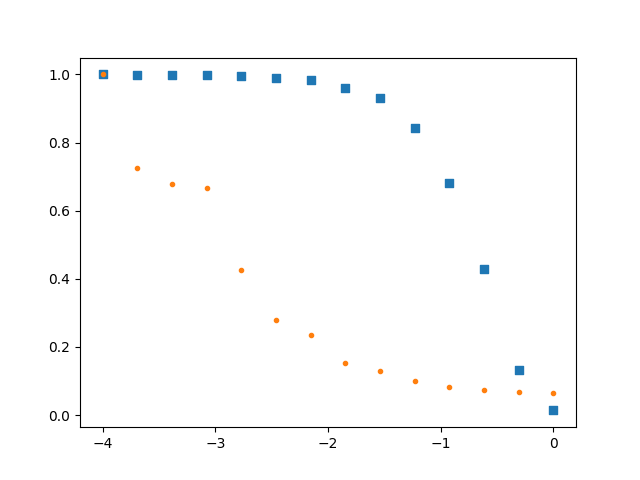
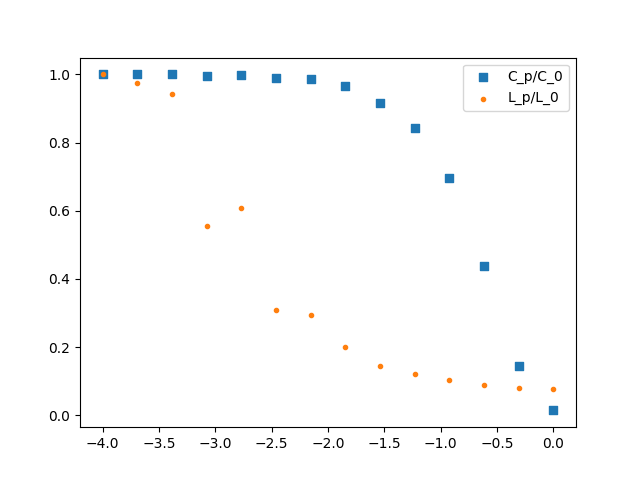
Assn11

diff --git a/Assn10/HOT.py b/Assn10/HOT.py
@@ -90,14 +90,15 @@ def get_and_plot_cluster_size_zipf_special(ax,cluster_sizes, density, color):
     df = pd.DataFrame(cluster_sizes, columns=["size"])
     dist = ranktools.group_data(df, "size", "n_k")
     x_vals, log_nk = ranktools.plot_zipf(ax, list(dist['n_k']), color=color, label=f'density: {str(density)}')
-    slope_new, intercept_new, r_new, p_new, stderr_new = plottools.plot_fit(ax, x_vals, log_nk)
+    slope_new, intercept_new, r_new, p_new, stderr_new = plottools.plot_fit(ax, x_vals, log_nk, color=color)
 
     # fig2.show(ax)
 
 
-L = 64  # height, width
+L = 32  # height, width
 l = L / 10
 ds = [1, 2, int(L), int(L**2)]
+ds = [int(L**2)]
 # ds = [1, 2, 3]
 # get norm constant
 norm_denom = 0
@@ -179,32 +180,42 @@ def last_part():
     cmap = get_cmap(9)
     forest = np.zeros((L, L))
     figd, axz = plt.subplots()
-    structure = [[0, 1, 0], [1, 1, 1], [0, 1, 0]]  # define connection
     for i in range(L * L):
         forest, forest_yield, density = get_spot_with_max_yield_for_d(forest, spark_dist, L**2)
-        labeled_forest, nb_labels = ndimage.label(forest, structure)  # label clusters
+        labeled_forest, nb_labels = ndimage.measurements.label(forest)  # label clusters
         cluster_sizes = ndimage.sum(forest, labeled_forest, range(nb_labels + 1))
         filter = cluster_sizes > 0
         nonzero_cluster_sizes = cluster_sizes[filter]
 
-        if round(density,2) == 0.10:
+        done = 0
+        if (i == math.floor(L*L/10.0)) & done == 0:
+            print(round(density,2))
             get_and_plot_cluster_size_zipf_special(axz, nonzero_cluster_sizes, density, cmap(0))
-        if  round(density,2)== 0.20:
+            done += 1
+        if (i == math.floor(1* L*L/10.0))& done == 1:
             get_and_plot_cluster_size_zipf_special(axz, nonzero_cluster_sizes, density, cmap(1))
-        if  round(density,2) == 0.30:
+            done += 1
+        if (i == math.floor(3* L*L/10.0))& done == 2:
             get_and_plot_cluster_size_zipf_special(axz, nonzero_cluster_sizes, density, cmap(2))
-        if round(density,2) == 0.40:
+            done += 1
+        if (i == math.floor(4 * L*L/10.0))& done == 3:
             get_and_plot_cluster_size_zipf_special(axz, nonzero_cluster_sizes, density, cmap(3))
-        if round(density,2) == 0.50:
+            done += 1
+        if (i == math.floor(5* L*L/10.0))& done == 4:
             get_and_plot_cluster_size_zipf_special(axz, nonzero_cluster_sizes, density, cmap(4))
-        if round(density,2) == 0.60:
+            done += 1
+        if (i == math.floor(6 * L*L/10.0))& done == 5:
             get_and_plot_cluster_size_zipf_special(axz, nonzero_cluster_sizes, density, cmap(5))
-        if round(density,2) == 0.70:
+            done += 1
+        if (i == math.floor(7* L*L/10.0))& done == 6:
             get_and_plot_cluster_size_zipf_special(axz, nonzero_cluster_sizes, density, cmap(6))
-        if round(density,2) == 0.80:
+            done += 1
+        if (i == math.floor(8*L*L/10.0)) & done == 7:
             get_and_plot_cluster_size_zipf_special(axz, nonzero_cluster_sizes, density, cmap(7))
-        if round(density,2) == 0.90:
+            done += 1
+        if (i == math.floor(9*L*L/10.0))& done == 8:
             get_and_plot_cluster_size_zipf_special(axz, nonzero_cluster_sizes, density, cmap(8))
+            break
 
     axz.legend()
     axz.set_title("Cluster size for varying densities")

diff --git a/Assn11/Q2.py b/Assn11/Q2.py
@@ -24,11 +24,13 @@ df['c_p_norm'] = df['c_p']/c_0
 df['l_p_norm'] = df['l_p']/l_0
 df['p_log'] = np.log10(df['p'])
 fig, ax = plt.subplots()
-ax.scatter(df['p_log'], df['c_p_norm'], marker='s')
-ax.scatter(df['p_log'], df['l_p_norm'], marker='.')
-# ax.set_xscale('log'
-x = [10**(-4), 10**(-3),10**(-2),10**(-1),1]
-ax.set_xticks(np.log10(x))
+ax.scatter(df['p_log'], df['c_p_norm'], marker='s', label='C_p/C_0')
+ax.scatter(df['p_log'], df['l_p_norm'], marker='.', label='L_p/L_0')
+
+# x = [10**(-4), 10**(-3),10**(-2),10**(-1),1]
+# ax.set_xticks(np.log10(x))
+ax.legend()
+
 # ax.xaxis.set_major_locator(ticker.FixedLocator(x))
 
 fig.savefig('Plots/WattsStrogatz.png')
